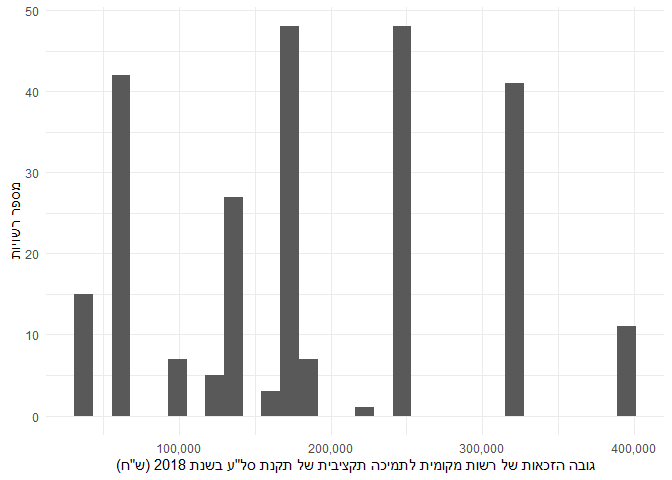
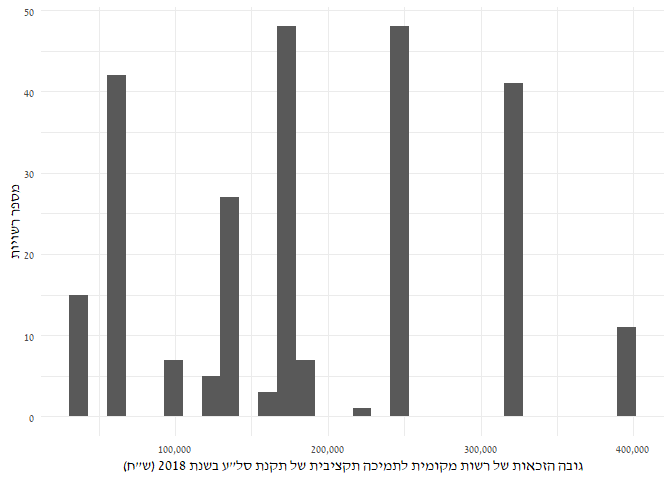
Compile descriptive hypo plot

diff --git a/entire_workflow.md b/entire_workflow.md
@@ -184,6 +184,12 @@ hypo_labs <- c(
   "ערך מדד היפותטי",
   "ערך מדד בפועל"
 )
+
+muni_type_colors <- c(
+  "עירייה" = "#F8766D",
+  "מועצה אזורית" = "#00BA38",
+  "מועצה מקומית" = "#619CFF"
+)
 ```
 
 # Utility functions
@@ -1542,7 +1548,6 @@ df_2018 <- df_2018 |>
 df_2018 |> 
   ggplot(aes(budget_elig_tot)) +
   geom_histogram() +
-  theme_minimal() +
   scale_x_continuous(labels = label_comma()) +
   labs(
     x = 'גובה הזכאות של רשות מקומית לתמיכה תקציבית של תקנת סל"ע בשנת 2018 (ש"ח)',
@@ -1944,6 +1949,39 @@ df <- df |>
 ```
 
 ### Visualizing the hypothetical culture budget inequality
+
+``` r
+df |> 
+  filter(year >= 2016) |> 
+  pivot_longer(c(budget_approved_culture_per_capita, budget_approved_culture_hypo_per_capita), names_to = "statistic", values_to = "value") |> 
+  ggplot(aes(log10(value + 1), color = statistic)) + 
+  geom_density()
+```
+
+``` r
+df |> 
+  mutate(muni_type = fct_relevel(muni_type, "עירייה", "מועצה אזורית", "מועצה מקומית")) |>
+  filter(year == 2018) |> 
+  ggplot(aes(log10(budget_approved_culture_per_capita + 0.1), log10(budget_approved_culture_hypo_per_capita + 0.1), size = pop, color = muni_type)) +
+  geom_point(alpha = 0.5) +
+  geom_abline() + 
+  scale_x_continuous(breaks = -1:3, labels = 10 ^ (-1:3)) +
+  scale_y_continuous(breaks = -1:3, labels = 10 ^ (-1:3)) +
+  scale_color_manual(values = muni_type_colors) +
+   guides(
+    color = guide_legend(override.aes = list(size = 3), title = "סוג רשות מקומית"),
+    size = guide_legend(title = "אוכלוסייה")
+  ) +
+  theme(
+    legend.position = c(0.2, 0.8),
+    legend.background = element_rect(fill = "white", color = "black"),
+    legend.box = "horizontal"
+  ) +
+  labs(
+    x = str_rtl('תקציב תרבות בפועל לתושב (ש"ח, סולם לוגריתמי)'),
+    y= str_rtl('תקציב תרבות היפותטי לתושב  (ש"ח, סולם לוגריתמי)')
+  )
+```
 
 #### GINI
 
